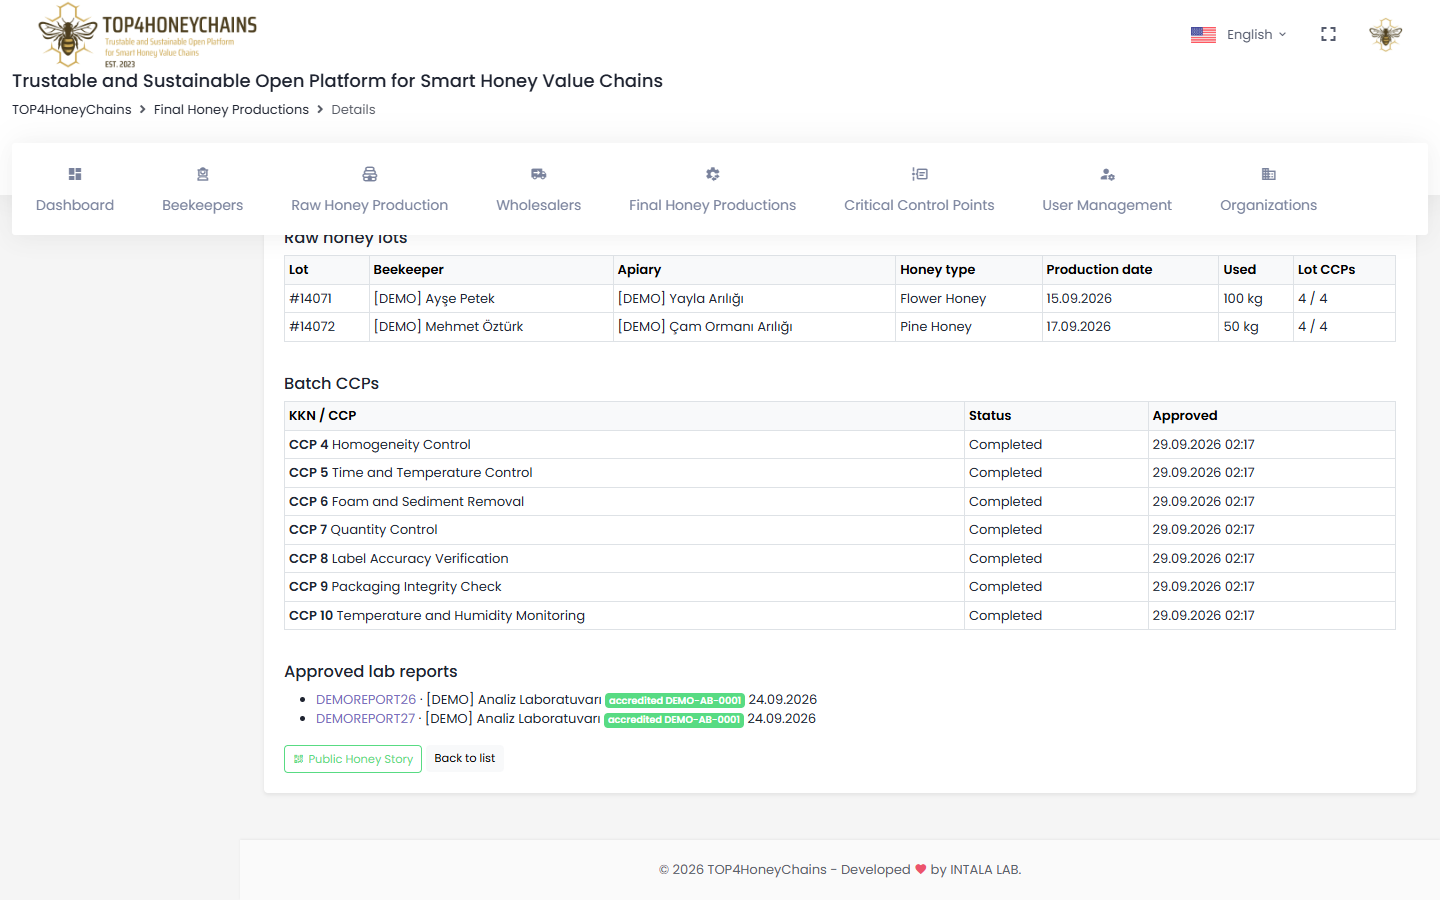
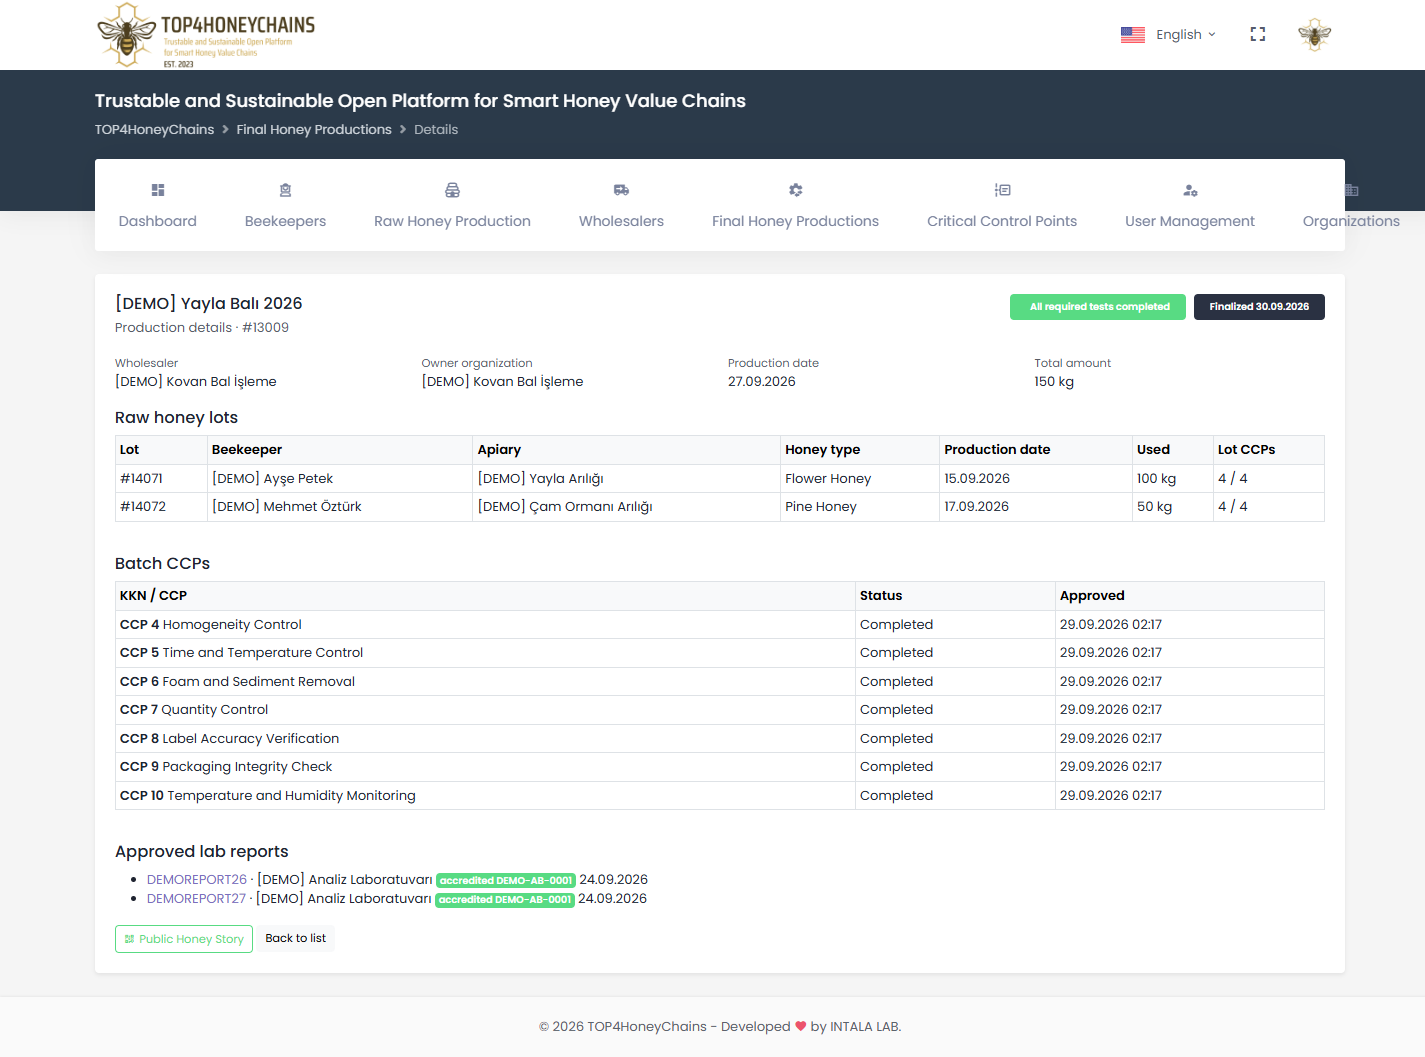
Fix horizontal layout wrapper on Roles and permissions, Production details and Reference translations; retake figures 25 and 32
The three views lacked the body data-layout="horizontal" wrapper the other horizontal-layout views use,
so the menu bar covered the top of the content.

diff --git a/docs/figures-en/web/FIGURE_LIST.md b/docs/figures-en/web/FIGURE_LIST.md
@@ -40,4 +40,4 @@ Desktop images are 1440x900 (full-page where the page is longer); images 07 and 
 | 32 | 32_final_production_details.png | Production details: source lots, batch CCPs and approved lab reports. | Platform admin |
 
 Known cosmetic issues visible in the images: breadcrumbs show some raw route names (e.g. "Manage", "Index");
-the native file input uses the browser language ("Dosya Seç"); on 25 and 32 the top of the content sits under the menu bar.
+the native file input uses the browser language ("Dosya Seç"). Images 25 and 32 were retaken after the layout fix.
